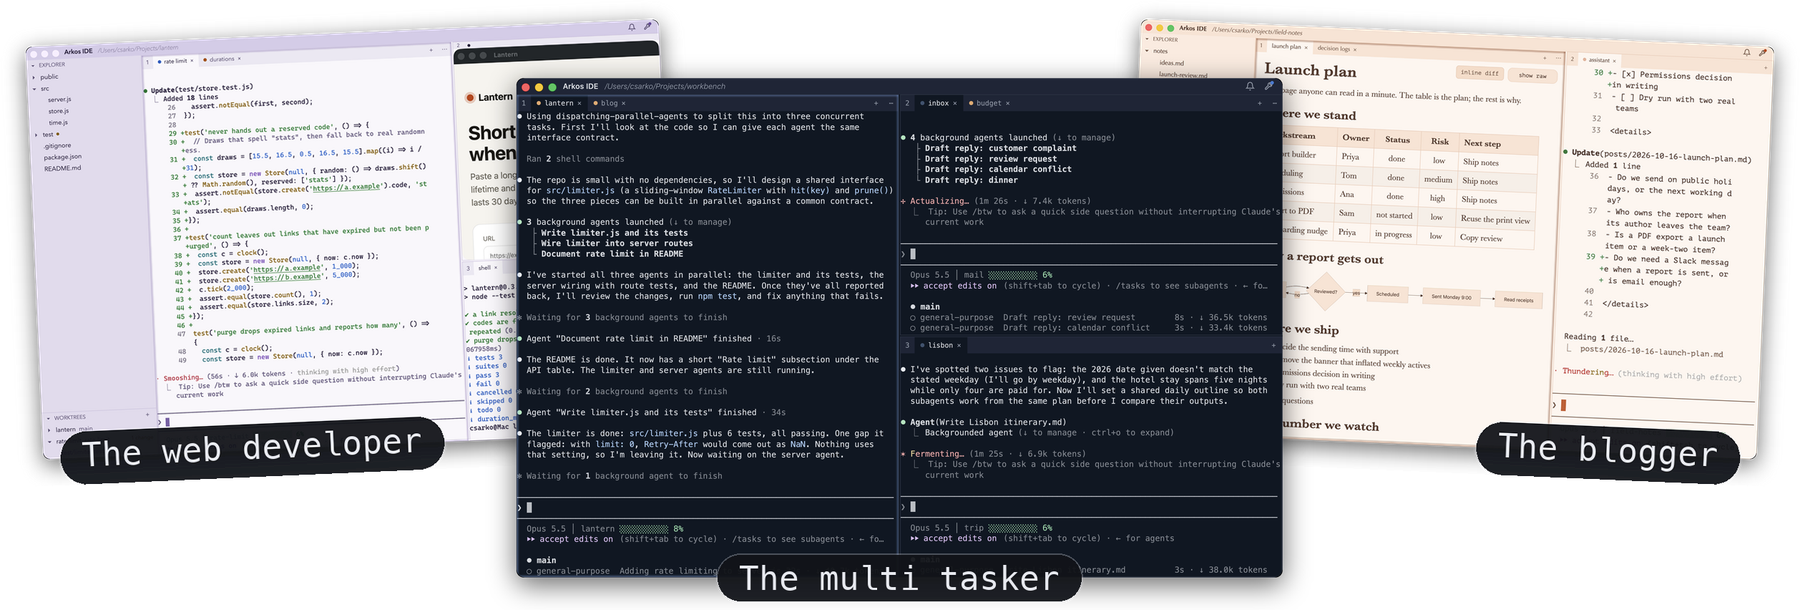
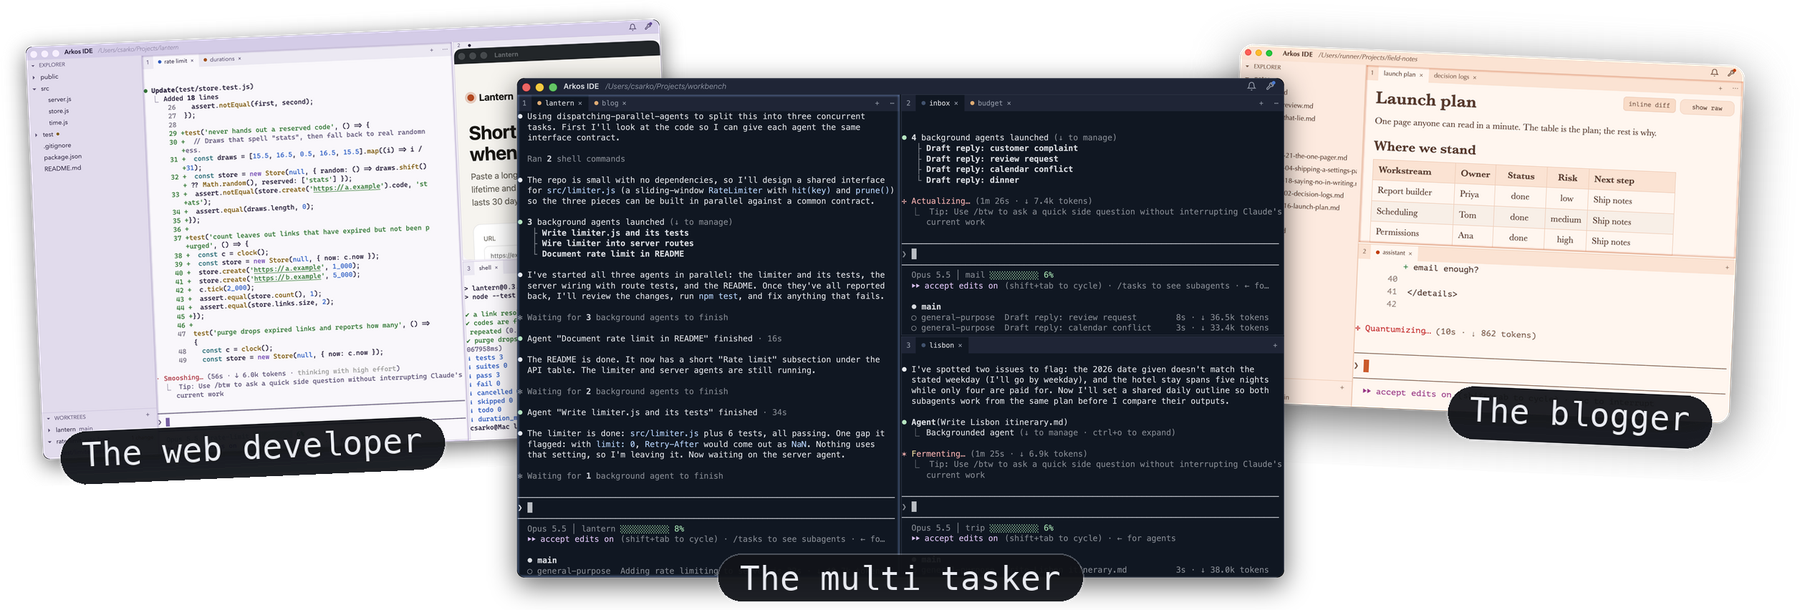
Shoot only the dark stills, and take the cloud shoot's Blogger
Each storyboard keeps its one dark shot, the hero is composed from the
dark stills alone, and the README shows those in either appearance; the
light stills and the side-by-side Blogger's leftovers are gone. The
Blogger and the heroes are the shoot workflow's (run 39039501150), and
the screenshot docs name the workflow as the way to take them.

Claude-Session: https://claude.ai/code/session_01WhT998Yo2rdQQjFgEp2ctx

diff --git a/README.md b/README.md
@@ -3,8 +3,7 @@
 <p align="center">Run many Claude Code sessions side by side, and never lose one.</p>
 
 <picture>
-  <source media="(prefers-color-scheme: dark)" srcset="docs/images/hero-dark.png">
-  <img alt="Three Arkos IDE windows fanned out like postcards. In front, the multi tasker: three Claude Code sessions side by side, each running its own subagents on an unrelated project. Behind, the web developer with a docked browser and tests, and the blogger with posts open in the markdown editor" src="docs/images/hero-light.png" width="900">
+  <img alt="Three Arkos IDE windows fanned out like postcards. In front, the multi tasker: three Claude Code sessions side by side, each running its own subagents on an unrelated project. Behind, the web developer with a docked browser and tests, and the blogger with posts open in the markdown editor" src="docs/images/hero-dark.png" width="900">
 </picture>
 
 <p align="center">
@@ -43,8 +42,7 @@ behind two of them a blog and a household budget whose sessions have finished. T
 which session is working and which is waiting on you.
 
 <picture>
-  <source media="(prefers-color-scheme: dark)" srcset="docs/images/multitasker-dark.png">
-  <img alt="One Arkos IDE window, no sidebar, three panes: a rate limiter being built by three background agents, an inbox triaged by four, and a trip being planned. The first two panes each have a second tab, a blog and a household budget, marked as waiting on you" src="docs/images/multitasker-light.png" width="760">
+  <img alt="One Arkos IDE window, no sidebar, three panes: a rate limiter being built by three background agents, an inbox triaged by four, and a trip being planned. The first two panes each have a second tab, a blog and a household budget, marked as waiting on you" src="docs/images/multitasker-dark.png" width="760">
 </picture>
 
 **The web developer** keeps a feature branch in a worktree, Claude Code on it and on the main
@@ -52,8 +50,7 @@ checkout, the app's page docked in Chrome next to the code, and the tests in a s
 tree and the worktree list show what changed.
 
 <picture>
-  <source media="(prefers-color-scheme: dark)" srcset="docs/images/web-developer-dark.png">
-  <img alt="An Arkos IDE window: the file tree and git worktrees on the left, two Claude Code tabs in the middle pane, one working and one waiting, a docked Chrome window showing a web page and a shell running tests on the right" src="docs/images/web-developer-light.png" width="760">
+  <img alt="An Arkos IDE window: the file tree and git worktrees on the left, two Claude Code tabs in the middle pane, one working and one waiting, a docked Chrome window showing a web page and a shell running tests on the right" src="docs/images/web-developer-dark.png" width="760">
 </picture>
 
 **The blogger** lives in markdown: a launch plan rendered in the editor, with its status table
@@ -64,8 +61,7 @@ The same work stacked, one pane above the other: the file on top with the caret 
 the rendered view is also where you edit, and the session below.
 
 <picture>
-  <source media="(prefers-color-scheme: dark)" srcset="docs/images/blogger-dark.png">
-  <img alt="An Arkos IDE window with two panes one above the other: a launch plan rendered in the markdown editor on top, its status table drawn as a grid, with the caret in a heading showing its markdown source; below it a Claude Code session updating the plan from the notes" src="docs/images/blogger-light.png" width="620">
+  <img alt="An Arkos IDE window with two panes one above the other: a launch plan rendered in the markdown editor on top, its status table drawn as a grid, with the caret in a heading showing its markdown source; below it a Claude Code session updating the plan from the notes" src="docs/images/blogger-dark.png" width="620">
 </picture>
 
 ## Privacy

diff --git a/docs/development.md b/docs/development.md
@@ -131,7 +131,7 @@ The pictures in `docs/images/` (the README's and csarko.sh's) are taken of the r
 `scripts/shoot.sh`: one scene per storyboard in `scripts/shoot/stories/` (the multi tasker, the
 web developer, the blogger), each a dev build on a demo project of its own (`scripts/shoot/demo`)
 with real Claude Code sessions given the prompts written there, captured once the tabs show the
-states the storyboard asks for, and the hero (`hero-dark.png`, `hero-light.png`) composed from
+states the storyboard asks for, and the hero (`hero-dark.png`) composed from
 the scenes' stills with the multi tasker in front. Nothing in them is staged afterwards; change a
 storyboard to change its picture, and `scripts/shoot.sh <scene>` redoes that scene alone
 (`compose` only remakes the hero). The shoot runs a second arkosd of its own (`ARKOS_APP_SUPPORT`
@@ -142,6 +142,13 @@ grant it Screen Recording once, and the shoot's copy of Arkos Accessibility once
 pane). Each scene spends a few minutes of your Claude Code account. Progress captures and the
 panes' states land in `docs/images/progress/<scene>/` every 20 s while it runs, and a scene whose
 Claude Code panes never start is ended after a minute.
+
+The pictures are shot in the cloud: the `shoot` workflow runs `scripts/shoot.sh` on a GitHub
+macOS runner, Claude Code signed in with the `CLAUDE_CODE_OAUTH_TOKEN` secret (from `claude
+setup-token`). `gh workflow run shoot -f scenes="blogger"` (scenes space-separated; `probe`
+checks the runner without Claude Code), then `gh run download <run id> -D <dir>` and copy the
+stills it changed into `docs/images/`; the hero is recomposed on the runner with them. Only the
+dark stills are taken (each storyboard has one `dark` shot) and the README shows those alone.
 
 ## Status
 
